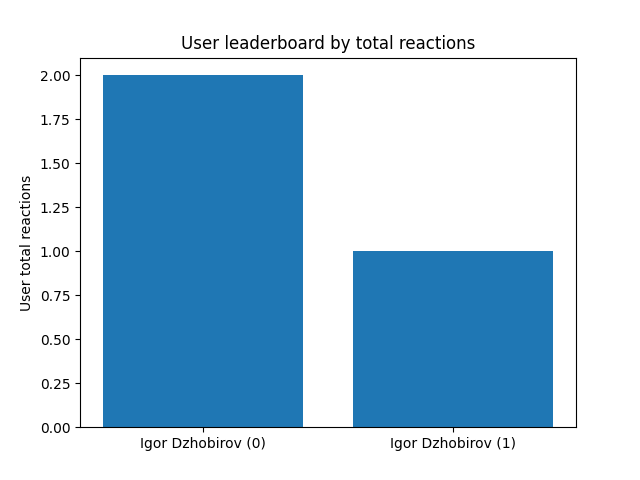
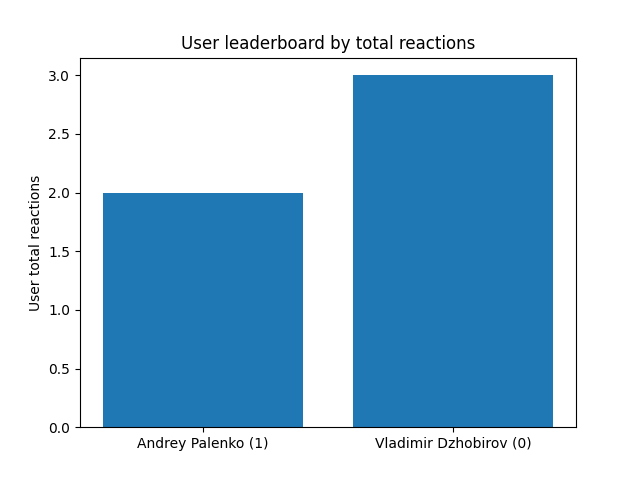
deleted sort in leaderboard_type: graph

diff --git a/app/views.py b/app/views.py
@@ -158,19 +158,19 @@ def get_posts(user_id):
 def get_users():
     data = request.get_json()
     leaderboard_type = data["type"]
-    sort = data["sort"]
-    if sort == "asc":
-        sorted_users = sorted(USERS, key=lambda x: x.total_reactions)
-    elif sort == "desc":
-        sorted_users = sorted(USERS, key=lambda x: x.total_reactions, reverse=True)
-    else:
-        return Response(status=HTTPStatus.BAD_REQUEST)
-
-    leaderboard = copy.deepcopy(sorted_users)
-    for user in leaderboard:
-        user.__dict__.pop("posts", None)
-
     if leaderboard_type == "list":
+        sort = data["sort"]
+        if sort == "asc":
+            sorted_users = sorted(USERS, key=lambda x: x.total_reactions)
+        elif sort == "desc":
+            sorted_users = sorted(USERS, key=lambda x: x.total_reactions, reverse=True)
+        else:
+            return Response(status=HTTPStatus.BAD_REQUEST)
+
+        leaderboard = copy.deepcopy(sorted_users)
+        for user in leaderboard:
+            user.__dict__.pop("posts", None)
+
         response = Response(
             json.dumps(
                 {
@@ -185,6 +185,8 @@ def get_users():
         return response
 
     elif leaderboard_type == "graph":
+        sorted_users = sorted(USERS, key=lambda x: x.total_reactions)
+        leaderboard = copy.deepcopy(sorted_users)
         fig, ax = plt.subplots()
 
         user_names = [f"{user.first_name} {user.last_name} ({user.id})" for user in leaderboard]
